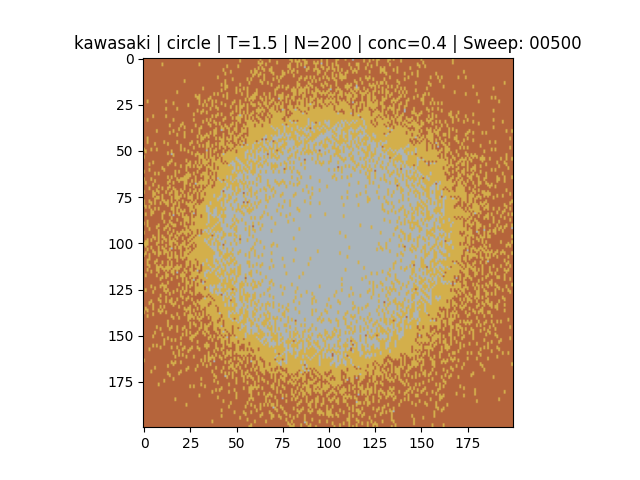
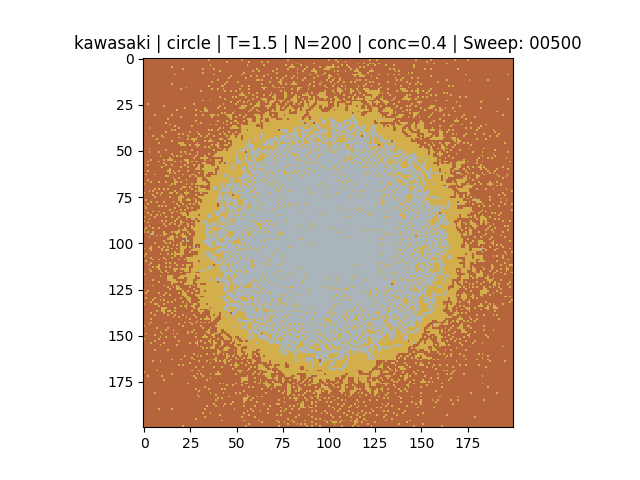
Sistemato modo in cui in ALLOY veniva visualizzata la lega. Approccio più sensato fisicamente, ma non privo di errori

Changed region(s): [[0.2188, 0.125, 0.8125, 0.9062], [0.75, 0.1875, 0.7812, 0.2188], [0.5312, 0.5312, 0.5625, 0.5625]]

diff --git a/ALLOY/Lattice.py b/ALLOY/Lattice.py
@@ -1,7 +1,7 @@
 import random
 import numpy as np
 import matplotlib.pyplot as plt
-
+from matplotlib.colors import ListedColormap
 
 
 
@@ -719,32 +719,29 @@ class Lattice(object):
         plt.clf()
 
 
-        # Creiamo un'immagine RGB vuota (griglia NxN, con 3 valori per Rosso, Verde, Blu)
-        img = np.zeros((self.N, self.N, 3))
+        # somma dei primi vicini (con bordi periodici tramite np.roll)
+        vicini_su = np.roll(self.lattice, 1, axis=0)
+        vicini_giu = np.roll(self.lattice, -1, axis=0)
+        vicini_dx = np.roll(self.lattice, 1, axis=1)
+        vicini_sx = np.roll(self.lattice, -1, axis=1)
         
-        # Coloriamo gli atomi base (usando valori RGB tra 0 e 1)
-        # Atomi A (+1) -> Rame
-        img[self.lattice == 1] = [0.710, 0.396, 0.235]
-        # Atomi B (-1) -> Zinco
-        img[self.lattice == -1] = [0.663, 0.706, 0.737]
+        # energia di interazione locale
+        interazione = self.lattice * (vicini_su + vicini_giu + vicini_dx + vicini_sx)
         
-        # Colore per la lega formata -> Ottone (giallo dorato)
-        colore_lega = [0.831, 0.690, 0.298]
+        # creazione della matrice dei colori
+        color_matrix = np.zeros_like(self.lattice, dtype=int)
+        color_matrix[(self.lattice == 1) & (interazione >= 0)] = 1   # Rame
+        color_matrix[(self.lattice == -1) & (interazione >= 0)] = 2  # Zinco
+        color_matrix[interazione <= -2] = 3                          # Ottone (Lega)
         
-        # cerchiamo l'unità periodica della lega: +1 sopra, -1 sotto
-        for i in range(self.N):
-            for j in range(self.N):
-                # Troviamo l'indice della riga sotto (usando % per i bordi periodici)
-                i_sotto = (i + 1) % self.N
-                
-                # Se l'atomo corrente è +1 e quello sotto è -1
-                if self.lattice[i, j] == 1 and self.lattice[i_sotto, j] == -1:
-                    # Coloriamo di viola ENTRAMBI i pixel della coppia
-                    img[i, j] = colore_lega
-                    img[i_sotto, j] = colore_lega
+        # mappatura dei colori esatti RGB
+        cmap_3colors = ListedColormap([
+            [0.710, 0.396, 0.235], # 1: Rame
+            [0.663, 0.706, 0.737], # 2: Zinco
+            [0.831, 0.690, 0.298]  # 3: Ottone
+        ])
         
-        # mostriamo l'immagine
-        plt.imshow(img)
+        plt.imshow(color_matrix, cmap=cmap_3colors, interpolation='none', vmin=1, vmax=3)
         
         plt.title(f"{self.dynamics.__name__} | {self.nome_config} | T={self.T} | N={self.N} | conc={self.conc_B} | Sweep: {step_name}")
         
@@ -752,6 +749,34 @@ class Lattice(object):
         percorso_file = f"{cartella}/step_{step_name}.png"
         plt.savefig(percorso_file)
 
+
+# # Creiamo un'immagine RGB vuota (griglia NxN, con 3 valori per Rosso, Verde, Blu)
+#         img = np.zeros((self.N, self.N, 3))
+        
+#         # Coloriamo gli atomi base (usando valori RGB tra 0 e 1)
+#         # Atomi A (+1) -> Rame
+#         img[self.lattice == 1] = [0.710, 0.396, 0.235]
+#         # Atomi B (-1) -> Zinco
+#         img[self.lattice == -1] = [0.663, 0.706, 0.737]
+        
+#         # Colore per la lega formata -> Ottone (giallo dorato)
+#         colore_lega = [0.831, 0.690, 0.298]
+        
+#         # cerchiamo l'unità periodica della lega: +1 sopra, -1 sotto
+#         for i in range(self.N):
+#             for j in range(self.N):
+#                 # Troviamo l'indice della riga sotto (usando % per i bordi periodici)
+#                 i_sotto = (i + 1) % self.N
+                
+#                 # Se l'atomo corrente è +1 e quello sotto è -1
+#                 if self.lattice[i, j] == 1 and self.lattice[i_sotto, j] == -1:
+#                     # Coloriamo di viola ENTRAMBI i pixel della coppia
+#                     img[i, j] = colore_lega
+#                     img[i_sotto, j] = colore_lega
+        
+#         # mostriamo l'immagine
+#         plt.imshow(img)
+                            #vecchio modo di visualizzare la lega, sbagliato perchè guardava l'orientamento
 
 
 
